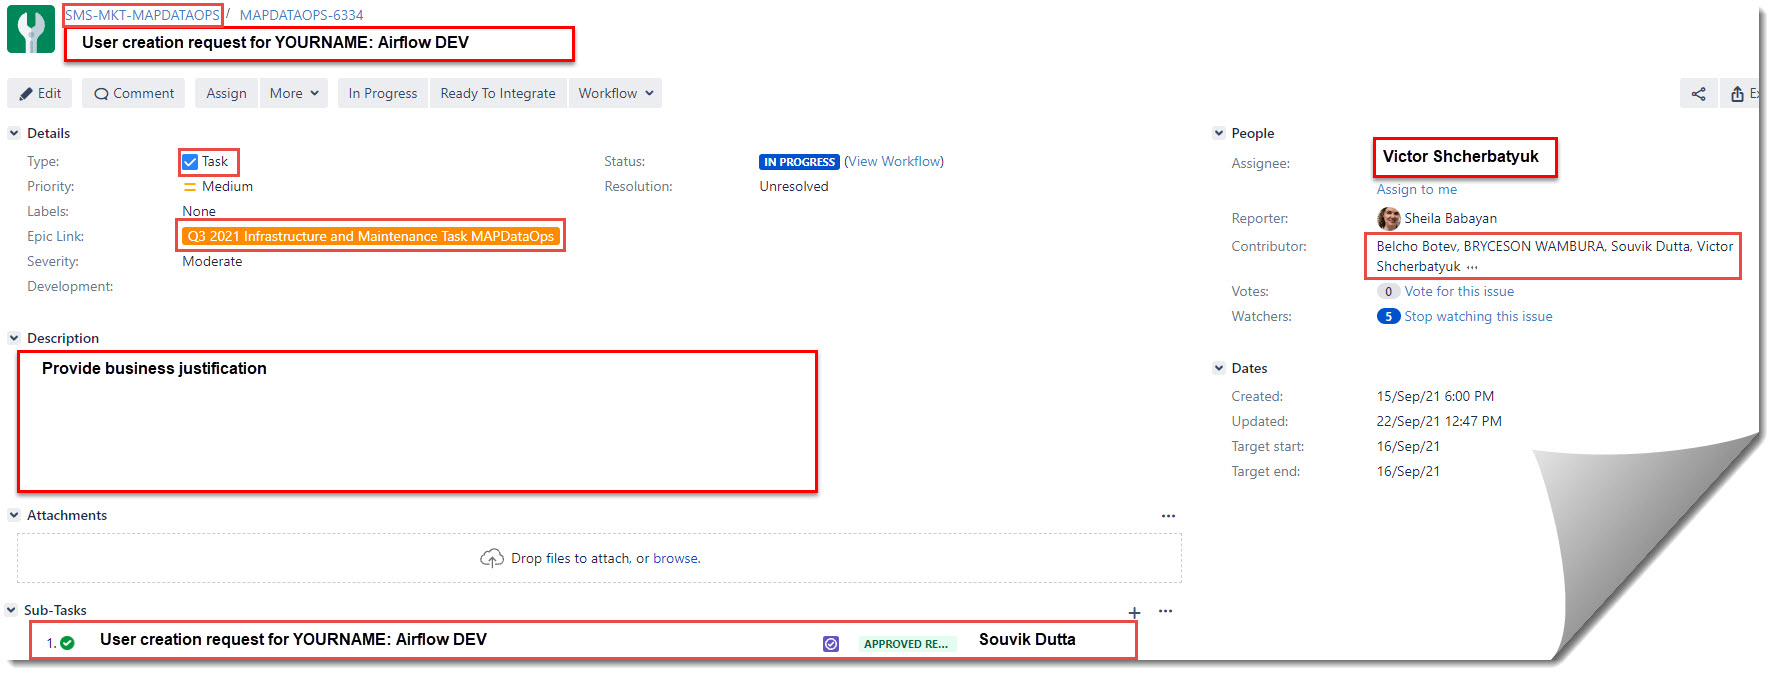
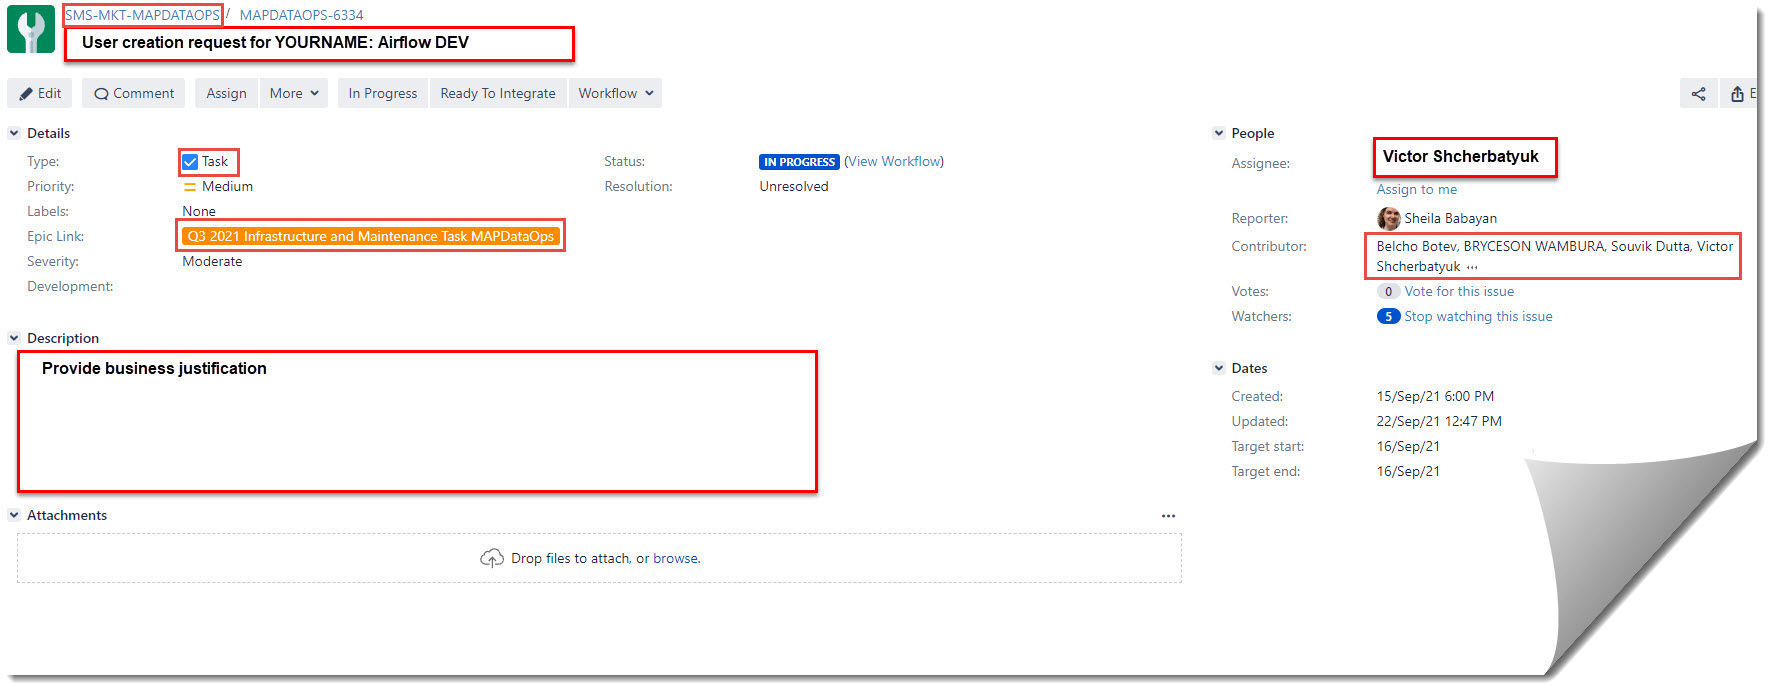
documentation update

diff --git a/airflow_conf/webserver_config.py b/airflow_conf/webserver_config.py
@@ -79,7 +79,7 @@ AUTH_USER_REGISTRATION_ROLE = "Public"
 # When using LDAP Auth, setup the ldap server
 AUTH_LDAP_SERVER = 'ldaps://bluepages.ibm.com:636/'
 AUTH_LDAP_SEARCH = "ou=bluepages,o=ibm.com"
-AUTH_LDAP_BIND_USER = 'uid=Y9E7HY626,c=by,ou=bluepages,o=ibm.com'
+AUTH_LDAP_BIND_USER = 'uid=C-TKFU897,c=us,ou=bluepages,o=ibm.com'
 AUTH_LDAP_BIND_PASSWORD = 'changeme'
 AUTH_LDAP_UID_FIELD = 'preferredIdentity'
 

diff --git a/docs/User Roles Assignment.md b/docs/User Roles Assignment.md
@@ -36,12 +36,12 @@ _AUTH_USER_REGISTRATION_ROLE_ = _"Public"_
 
 **Create Jira ticket. Provide the following information**
 - You name and desired environment in ticket name
-- Provide business justification in description field specifying which kind of access you need
+- Provide business justification in description field specifying **which kind of access** you need
 - Set Type, Epic Link, Assignee and Contributor list according to the screenshot below
 
 <img src="https://github.ibm.com/CIO-MAP/MAP-ETL-Framework-AirflowK8s/blob/master/docs/pics/3_1.jpg">
 
-**Create sub-task with approval**
+**If requesting access to PROD environment create sub-task with approval**
 - Set Type and Assignee according to screenshot below
 
 <img src="https://github.ibm.com/CIO-MAP/MAP-ETL-Framework-AirflowK8s/blob/master/docs/pics/3_2.jpg">
